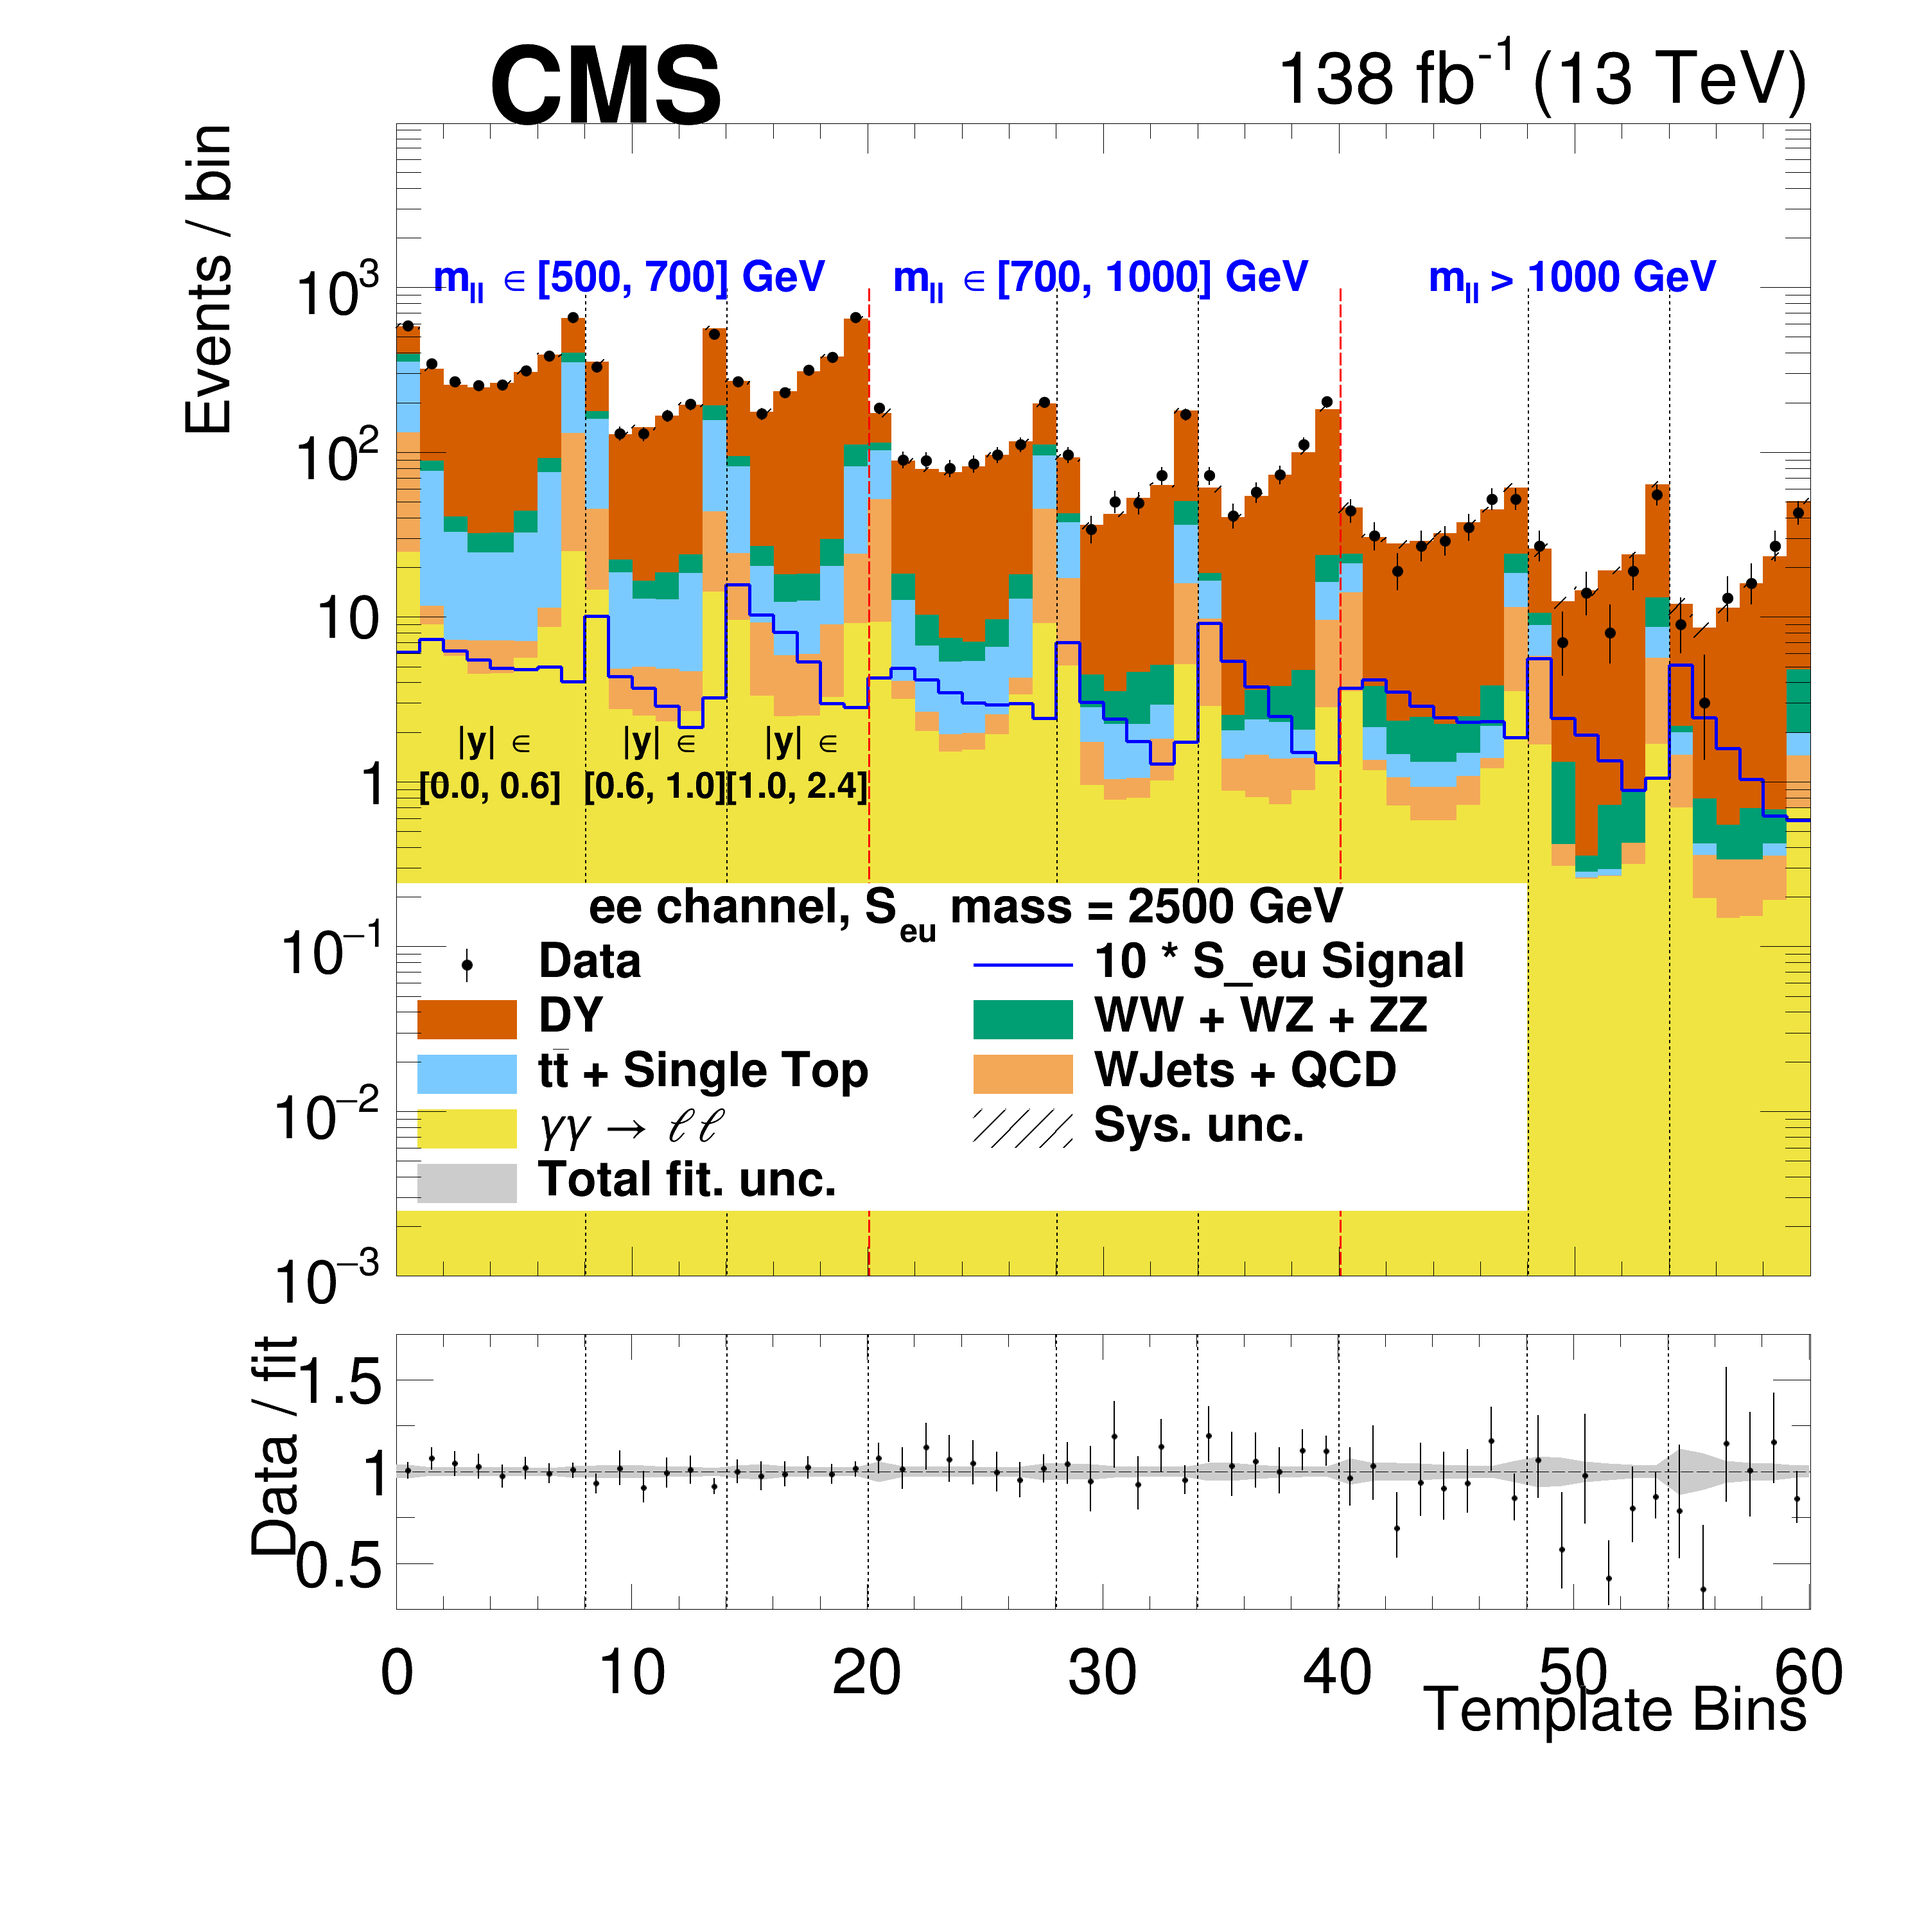
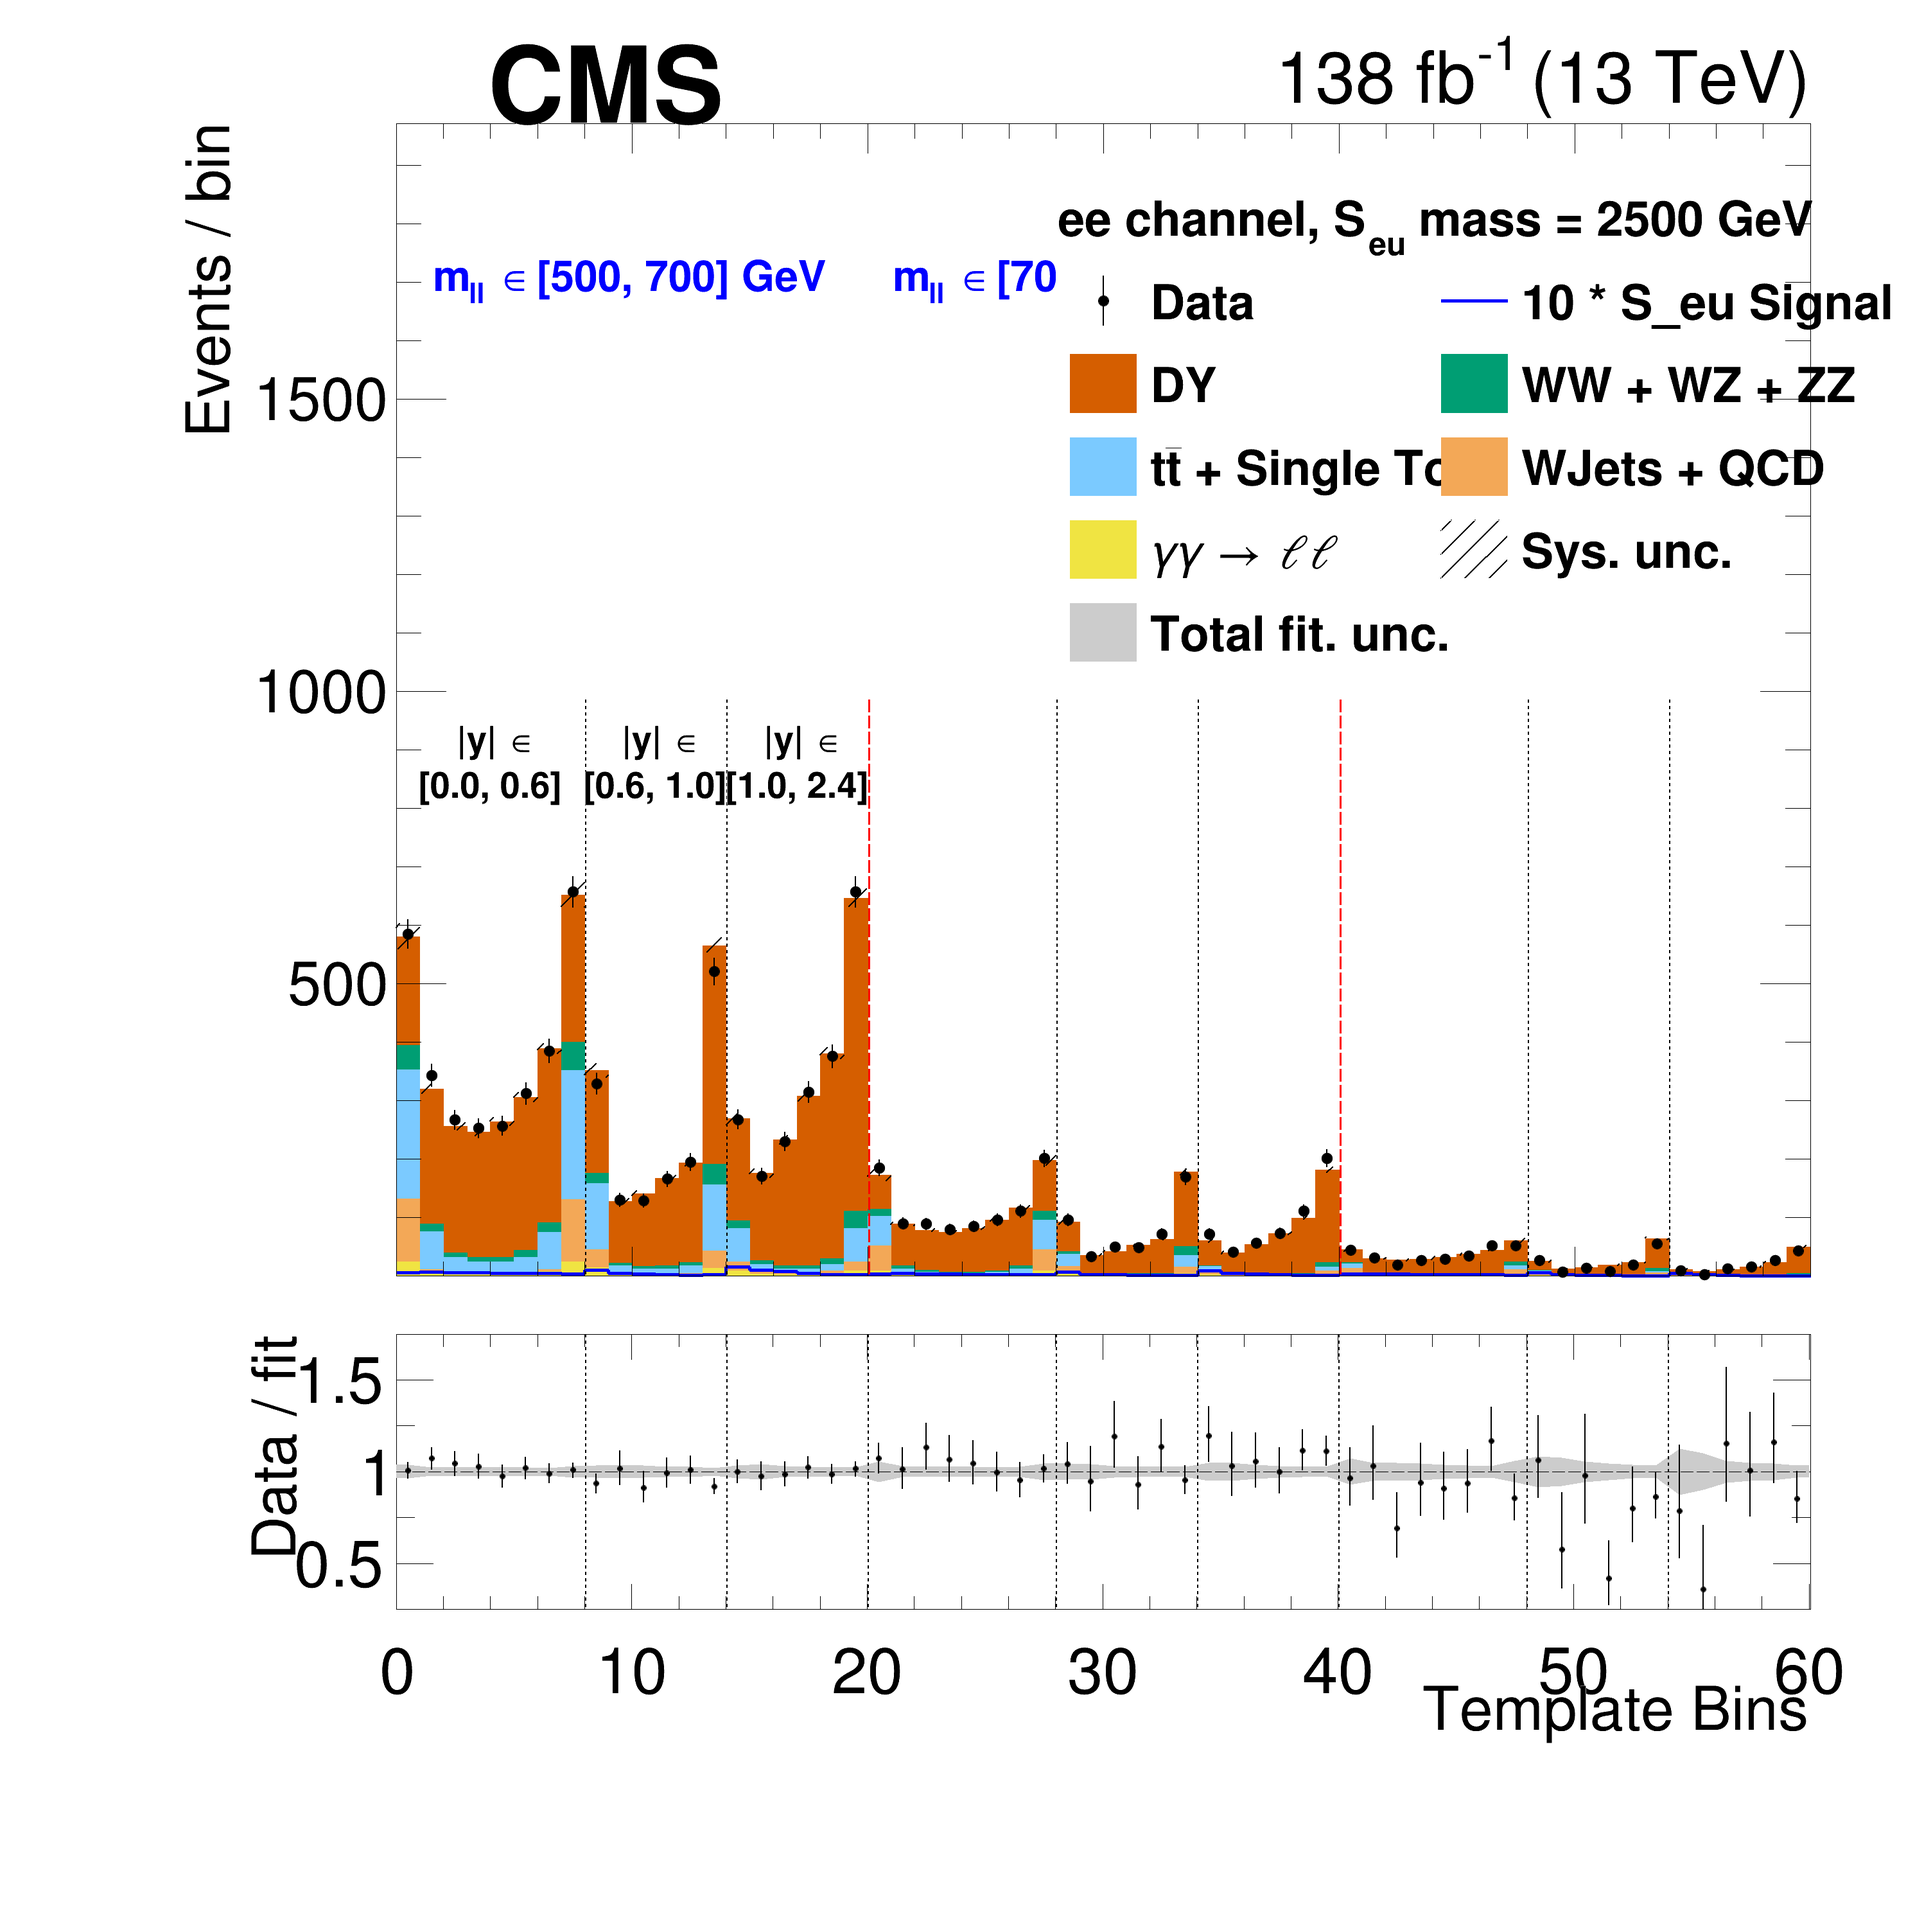
fixing postfit

Changed region(s): [[0.1242, 0.0929, 0.9933, 0.681]]

diff --git a/analyze/combine/AFB_fits/scripts/LQ_plot_postfit.py b/analyze/combine/AFB_fits/scripts/LQ_plot_postfit.py
@@ -773,7 +773,7 @@ def plot_combined():
 	del label_list[LQ_index]
 	del color_list[LQ_index]
 			
-	makeCan("Postfit_%s%s"%(options.q,options.chan[0]), options.output, [h_data_pois], signals = signals, bkglist=[hist_list], totlist=[h_tot_dir], colors = color_list, signalNames = signalNames, bkgNames = label_list, titles = [title], xtitle = "Template Bins" ,year = -1, datastyle=datastyle, ratio_range = ratio_range, NDiv = NDiv, prelim = False, logy=True) 
+	makeCan("Postfit_%s%s"%(options.q,options.chan[0]), options.output, [h_data_pois], signals = signals, bkglist=[hist_list], totlist=[h_tot_dir], colors = color_list, signalNames = signalNames, bkgNames = label_list, titles = [title], xtitle = "Template Bins" ,year = -1, datastyle=datastyle, ratio_range = ratio_range, NDiv = NDiv, prelim = False, logy=False) 
 
 def plot_yearly():
 	signals, signalNames = [],[]
